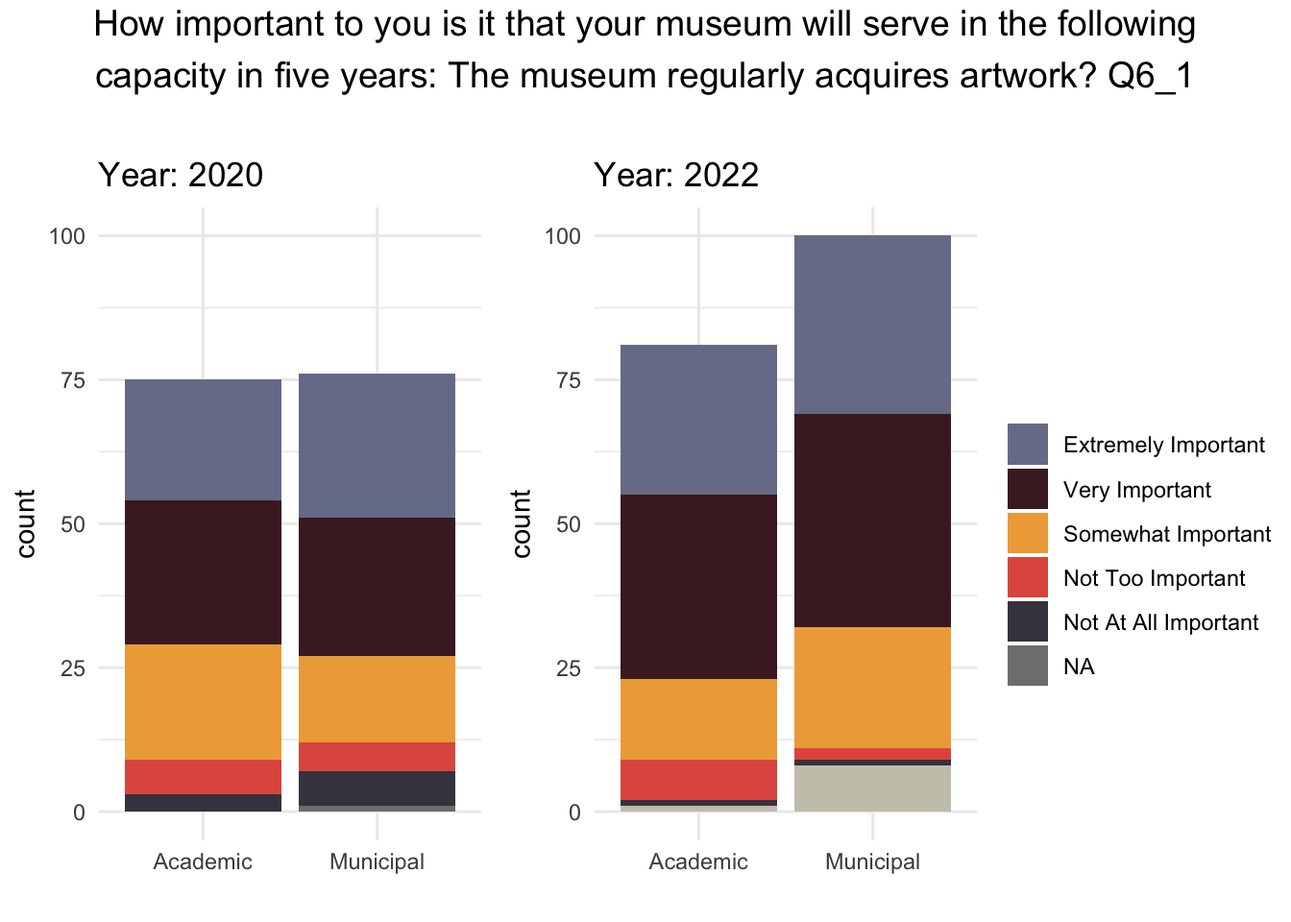
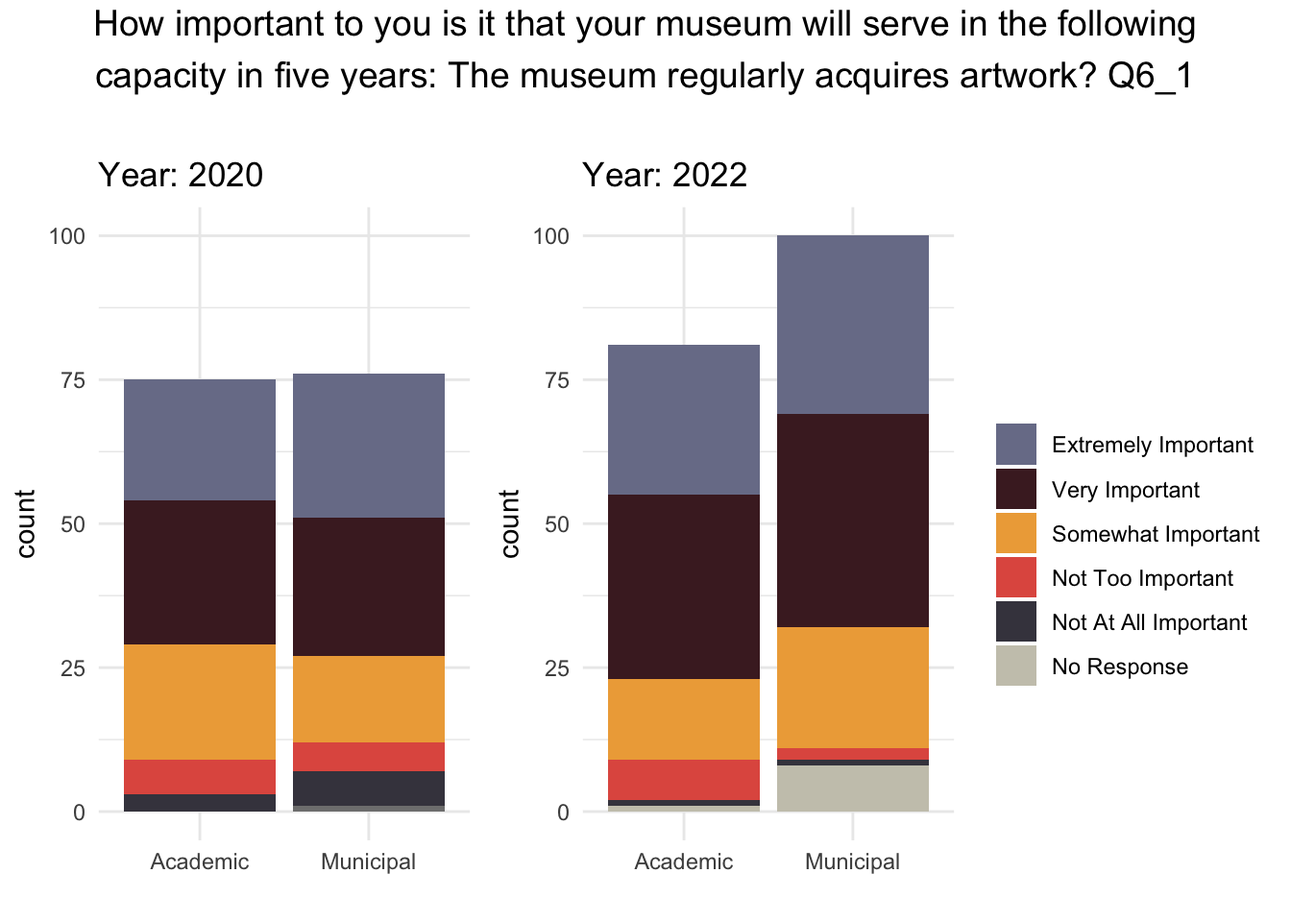
briannas fixes to the no response and na issues

diff --git a/_site/index.html b/_site/index.html
@@ -171,8 +171,8 @@ ul.task-list li input[type="checkbox"] {
 <h2 class="anchored" data-anchor-id="pca-analysis">PCA Analysis</h2>
 <div class="cell">
 <div class="cell-output-display">
-<div class="plotly html-widget html-fill-item" id="htmlwidget-b55cbbfea144236f5699" style="width:100%;height:464px;"></div>
-<script type="application/json" data-for="htmlwidget-b55cbbfea144236f5699">{"x":{"visdat":{"b3373631fd56":["function () ","plotlyVisDat"]},"cur_data":"b3373631fd56","attrs":{"b3373631fd56":{"x":{},"y":{},"mode":"markers","text":{},"hoverinfo":"text","marker":{"size":8,"opacity":1},"color":{},"colors":["#797d97","#cac7b9","#eeaa46","#4a2329","#e15b4f"],"alpha_stroke":1,"sizes":[10,100],"spans":[1,20],"type":"scatter"}},"layout":{"margin":{"b":40,"l":60,"t":25,"r":10},"title":{"text":"K-means Clustering on PCA Data","x":0.5,"xanchor":"center"},"xaxis":{"domain":[0,1],"automargin":true,"title":"PC1"},"yaxis":{"domain":[0,1],"automargin":true,"title":"PC2"},"legend":{"title":{"text":"Cluster"}},"hovermode":"closest","showlegend":true},"source":"A","config":{"modeBarButtonsToAdd":["hoverclosest","hovercompare"],"showSendToCloud":false},"data":[{"x":[1.9519669837468396,-0.34672951718763817,0.22867006025165865,1.3888820103977106,0.47893667713665039,-1.631635860011462,-0.23826189879536919,1.7821228840170011,-0.97540665248346758,0.43477365454045086,2.160290840545215,-0.12589699749730354,-2.0514690662157857,-0.69271084928894133,-0.068169590592236234,-2.3881764453225331,2.1763523705102252,-0.065012002914332678,0.32602127385675356,3.437594664475367,-0.28499385232099256,-0.9122061091808028,0.074477843692339549,0.63390348869985835,-0.89777349502524684,-1.3519287396442732,-0.90387715832019733,-1.2792696953575686,-0.4369157120150301,-1.7109417169914398,-0.10007386880636844,-0.091989849829529624,2.6369183552493745,1.1725482239351928,-0.69396323107238767,1.4287335118836426,-0.60716534530529787,-0.32965242105236542,0.32949752569067636,2.8887351896864009,0.35685268391167402,-1.1295295054848664,0.26081706879333483,0.22246898972410081,0.36382815139855468,-1.1462573944378258,0.037824082915974305,3.4115729823049752,-0.36310628756894542,-0.27873022883722676,-0.50642636824388443,0.28927361697365117],"y":[0.74742248445268256,1.4923206735003918,-0.91994422985294366,3.1197753494483136,1.3563185471339476,1.4986680541491204,1.9751080037334505,4.77139878841552,1.2498877044502206,0.64590801815596155,1.0575477025993407,0.3339151163710129,2.2032565462158553,2.9055073051589368,2.4713991288270067,1.7103967990660469,-0.46731120591713521,1.5334757821619649,1.5915025086749186,2.8938583623320011,1.6591684070258959,1.3967819693094785,1.8957491135744093,1.5364525945811942,-0.19531674983572078,0.71492746940552376,0.45617756909781149,1.8604530764820331,-0.50062351450272213,2.2427034978695932,2.5159168567193375,1.0522068061122356,3.1871480096704734,1.8801807717495747,2.0313770856793325,-0.2536495990129643,2.4221765278348339,1.1011719061949869,0.58359560011381717,3.2403459683341564,1.7152748639709736,0.92559545440133328,-1.0269779144760685,0.77964300334143,-0.74888213266847481,2.4563046566471942,1.5346750032688712,-0.25404765414689651,0.92368359384659926,0.5691870155792077,2.4821447731618269,2.1923072976478184],"mode":"markers","text":["ID: 3","ID: 7","ID: 11","ID: 12","ID: 16","ID: 17","ID: 20","ID: 23","ID: 24","ID: 30","ID: 33","ID: 38","ID: 42","ID: 45","ID: 48","ID: 55","ID: 58","ID: 62","ID: 65","ID: 66","ID: 71","ID: 73","ID: 75","ID: 80","ID: 84","ID: 87","ID: 94","ID: 95","ID: 97","ID: 99","ID: 100","ID: 104","ID: 107","ID: 108","ID: 111","ID: 112","ID: 115","ID: 117","ID: 118","ID: 119","ID: 124","ID: 136","ID: 140","ID: 141","ID: 145","ID: 147","ID: 152","ID: 153","ID: 156","ID: 164","ID: 177","ID: 180"],"hoverinfo":["text","text","text","text","text","text","text","text","text","text","text","text","text","text","text","text","text","text","text","text","text","text","text","text","text","text","text","text","text","text","text","text","text","text","text","text","text","text","text","text","text","text","text","text","text","text","text","text","text","text","text","text"],"marker":{"color":"rgba(121,125,151,1)","size":8,"opacity":1,"line":{"color":"rgba(121,125,151,1)"}},"type":"scatter","name":"1","textfont":{"color":"rgba(121,125,151,1)"},"error_y":{"color":"rgba(121,125,151,1)"},"error_x":{"color":"rgba(121,125,151,1)"},"line":{"color":"rgba(121,125,151,1)"},"xaxis":"x","yaxis":"y","frame":null},{"x":[0.60682477478487129,6.1597867816673402,1.532663615823159,3.0978107885122808,0.58843221608168239,1.8690412169865966,3.0922685676825816,2.5168266203129996,2.6313916515447482,4.2403480676353658,1.8139872130918999,0.94840825309821131,1.5654531888479541,2.112213335350738,4.1245700640749918,3.0825129371414914,2.2467584163499281,3.5344603739358784,3.2261037507716392,2.1057639031538327,2.6500963220426144,4.8721535818249606,2.6622738114152091,0.81339145011294589,2.7964904117546565,4.1246536581682482,4.1836676006554141,0.30014729274505042,2.7717771628469263,0.58084851640149404,3.4339591995878664,4.2260627644449,2.3872611026572343,0.77221224279213441,2.2688316160123705,4.2083435790701165,5.690526745241586],"y":[-1.2225237785036751,0.55363798306489576,2.5476962680762529,0.29339380693869616,0.30209182752737057,1.9165592140780907,0.49216222288222949,0.16805808198645539,-0.98658713167495404,1.0376886209793783,-1.9585949810558561,-0.78212881134347267,-0.65059269623512328,2.0418831621150009,-0.82151407967461287,0.72688250911641217,0.73220878711965565,1.1978604930971897,-0.33351565117700038,-0.072222832856582167,0.026473239561696216,0.093296771440084747,3.534625474176702,-0.51274377935091042,2.3142178458517551,1.1617312233105939,1.7300903884604659,-2.2231539445518695,-1.0090921479835422,0.27514425422446981,0.51534682906617713,0.582440976000972,1.7596722095429247,-1.6409742912704808,-0.51255394221134809,-1.4800675849099341,-0.24475176452356712],"mode":"markers","text":["ID: 1","ID: 6","ID: 9","ID: 10","ID: 22","ID: 34","ID: 39","ID: 44","ID: 46","ID: 52","ID: 59","ID: 68","ID: 74","ID: 76","ID: 79","ID: 81","ID: 85","ID: 92","ID: 101","ID: 103","ID: 109","ID: 110","ID: 116","ID: 121","ID: 128","ID: 138","ID: 139","ID: 142","ID: 144","ID: 148","ID: 150","ID: 151","ID: 155","ID: 158","ID: 159","ID: 169","ID: 179"],"hoverinfo":["text","text","text","text","text","text","text","text","text","text","text","text","text","text","text","text","text","text","text","text","text","text","text","text","text","text","text","text","text","text","text","text","text","text","text","text","text"],"marker":{"color":"rgba(202,199,185,1)","size":8,"opacity":1,"line":{"color":"rgba(202,199,185,1)"}},"type":"scatter","name":"2","textfont":{"color":"rgba(202,199,185,1)"},"error_y":{"color":"rgba(202,199,185,1)"},"error_x":{"color":"rgba(202,199,185,1)"},"line":{"color":"rgba(202,199,185,1)"},"xaxis":"x","yaxis":"y","frame":null},{"x":[-1.9711354743872325,-2.8562465749176575,-1.3012404373382547,-3.9282068407720585,-2.4572609348505394,-0.41490370784447245,-2.3037049767447551,0.11167601376614701,-1.760023185741777,-2.2329260352352764,-1.4794932678662605,-0.13318880655564569,-2.078356852251463,-0.75401512915603652,-3.2463436240978365,-1.9735038918329351,-0.54359791315650541,-3.6654743046885216,-0.93545164690782523,-1.2586946029741692,-4.0345116483095049,-4.3531040311024771,-3.8099021901159515,-1.1286545172884521,-0.6698549781348333,-4.2427427846927683,-4.3972320124075459,-2.4402202605496708,-2.487644318234731,-1.8082573299007163,-2.3687772238097122,-1.8031036081651521,-3.101168181134212,-2.1750493754392393,-1.4365999897759718,-4.1879558508134771,-2.5431375564136078,-1.8004581961732331,-0.55824876335040252,-4.2015917254672255,-3.5348872527911737,-2.8800899011774037,-2.0448290605570087,-1.2362472347285249,-1.8514176291997324,-1.0353740395819702,-1.2654742396344014,-4.027872156557839,-1.2133731653794202,-3.1978398370421246,-3.6398809629574918,-2.8147929559339042,-2.9223886410009188,-1.3506553313651235,-2.5281001026765018,-1.1971135767043795,-0.69186877082572551,-4.2478833001426617,-0.69734874467912522,-3.4941816658703213,-2.6950982010034275,-2.0423278213978517,-2.1570975299989557,-3.3740683280048995,-1.6399622512406147,0.51575583918526957,-0.28085602994846037,-2.4798927484412556,-0.76409996046896278,-1.9731463979193162,-2.2233790652234005,-0.19624099632028247,-2.3346762238373682,-1.5801727513662776,-0.9355998536474075,-2.0377804193188185,-0.8712673419493332,-1.9948283541255027,-2.9106341069528043,-4.7746349863726056,-0.58997120071491027,-0.041479668581613643],"y":[-0.57787056101989032,1.8911502444085913,-1.5696700115834028,-1.3865068994909828,1.465299169040563,-1.5360828697174282,-0.11913156402608727,-1.4299705361381148,0.8494690983219052,-2.1085538409099498,-1.7382303271157564,-1.5581156430714149,0.73027867433345639,-3.0732432369301597,-1.6291740269597443,1.1632270061285046,-1.3788060163646536,-0.28539654256194652,0.46658611897560076,0.55446922448665215,-0.012451530266400872,-0.12247917015603174,0.15514518940168026,-2.8409428525957741,-1.1679809861261654,0.15686951339380811,-0.71365023011996764,-0.043782187026531159,1.0967603051231154,-1.4426736915773704,0.46878020245948387,-2.7759950378566609,0.49939108199431431,-1.3666139511927069,1.0438592270085647,-0.39274753019223468,0.14107860155885193,0.080541076531973524,-1.6284644897870133,-0.44339581318678117,0.011912044981263654,0.97289622096312578,-0.48928780057962379,0.71643265662848665,-2.3173442976866125,-1.0077986780791768,-0.28908427672591558,-1.1400982540145663,0.10450934662155117,0.23494520769015387,-1.0283561445213494,1.1524093562731492,0.21126043065772693,0.33951282969553498,-2.064306735401757,0.36378520557650545,-0.60720469913983155,0.2904255420352525,-1.7950330939595509,-1.5671745182921195,-0.67660346869542953,-0.89943349516765347,0.71789772257288564,-1.3170548443890029,0.24132361204322805,-1.7558443528690888,-0.11269107215056724,-2.5347405157191956,-1.0223371734350066,0.45353334659552669,-2.1977108715959921,-1.0570474631661653,-1.8036913896942295,-0.27672300732370658,-0.089888273156349091,1.1404563561160757,-0.55321045214796027,-1.525580655208904,-1.1160918743746342,-0.29156362900901905,-0.26306034019189145,-0.82601875038594341],"mode":"markers","text":["ID: 2","ID: 4","ID: 8","ID: 13","ID: 14","ID: 15","ID: 21","ID: 25","ID: 26","ID: 27","ID: 28","ID: 29","ID: 31","ID: 32","ID: 35","ID: 36","ID: 37","ID: 41","ID: 43","ID: 47","ID: 49","ID: 50","ID: 51","ID: 53","ID: 54","ID: 56","ID: 57","ID: 60","ID: 61","ID: 63","ID: 64","ID: 67","ID: 69","ID: 70","ID: 72","ID: 77","ID: 78","ID: 82","ID: 83","ID: 86","ID: 88","ID: 89","ID: 90","ID: 91","ID: 93","ID: 98","ID: 102","ID: 105","ID: 106","ID: 114","ID: 120","ID: 122","ID: 125","ID: 126","ID: 127","ID: 129","ID: 130","ID: 131","ID: 133","ID: 134","ID: 135","ID: 137","ID: 146","ID: 149","ID: 154","ID: 157","ID: 160","ID: 161","ID: 162","ID: 163","ID: 165","ID: 166","ID: 167","ID: 168","ID: 170","ID: 172","ID: 173","ID: 174","ID: 175","ID: 176","ID: 178","ID: 181"],"hoverinfo":["text","text","text","text","text","text","text","text","text","text","text","text","text","text","text","text","text","text","text","text","text","text","text","text","text","text","text","text","text","text","text","text","text","text","text","text","text","text","text","text","text","text","text","text","text","text","text","text","text","text","text","text","text","text","text","text","text","text","text","text","text","text","text","text","text","text","text","text","text","text","text","text","text","text","text","text","text","text","text","text","text","text"],"marker":{"color":"rgba(238,170,70,1)","size":8,"opacity":1,"line":{"color":"rgba(238,170,70,1)"}},"type":"scatter","name":"3","textfont":{"color":"rgba(238,170,70,1)"},"error_y":{"color":"rgba(238,170,70,1)"},"error_x":{"color":"rgba(238,170,70,1)"},"line":{"color":"rgba(238,170,70,1)"},"xaxis":"x","yaxis":"y","frame":null},{"x":[5.28224837385737,4.8003809202713041,4.6193321084589209,6.3935806295873494,3.8409689287727797,6.9917359063374889,6.655697923565155,6.4104860301159556],"y":[-7.3633332480990212,-9.4938735015685154,-7.4293935087059522,-4.4325395651726387,-8.0657980038617563,-8.1868346683277586,-6.6516178282812168,-5.512100066304531],"mode":"markers","text":["ID: 5","ID: 19","ID: 40","ID: 96","ID: 113","ID: 123","ID: 132","ID: 143"],"hoverinfo":["text","text","text","text","text","text","text","text"],"marker":{"color":"rgba(74,35,41,1)","size":8,"opacity":1,"line":{"color":"rgba(74,35,41,1)"}},"type":"scatter","name":"4","textfont":{"color":"rgba(74,35,41,1)"},"error_y":{"color":"rgba(74,35,41,1)"},"error_x":{"color":"rgba(74,35,41,1)"},"line":{"color":"rgba(74,35,41,1)"},"xaxis":"x","yaxis":"y","frame":null},{"x":[11.232000682653949,9.0538361285100066],"y":[7.620719875414026,11.669068038996027],"mode":"markers","text":["ID: 18","ID: 171"],"hoverinfo":["text","text"],"marker":{"color":"rgba(225,91,79,1)","size":8,"opacity":1,"line":{"color":"rgba(225,91,79,1)"}},"type":"scatter","name":"5","textfont":{"color":"rgba(225,91,79,1)"},"error_y":{"color":"rgba(225,91,79,1)"},"error_x":{"color":"rgba(225,91,79,1)"},"line":{"color":"rgba(225,91,79,1)"},"xaxis":"x","yaxis":"y","frame":null}],"highlight":{"on":"plotly_click","persistent":false,"dynamic":false,"selectize":false,"opacityDim":0.20000000000000001,"selected":{"opacity":1},"debounce":0},"shinyEvents":["plotly_hover","plotly_click","plotly_selected","plotly_relayout","plotly_brushed","plotly_brushing","plotly_clickannotation","plotly_doubleclick","plotly_deselect","plotly_afterplot","plotly_sunburstclick"],"base_url":"https://plot.ly"},"evals":[],"jsHooks":[]}</script>
+<div class="plotly html-widget html-fill-item" id="htmlwidget-6c4dc3d18926eed528a5" style="width:100%;height:464px;"></div>
+<script type="application/json" data-for="htmlwidget-6c4dc3d18926eed528a5">{"x":{"visdat":{"b44d2517dece":["function () ","plotlyVisDat"]},"cur_data":"b44d2517dece","attrs":{"b44d2517dece":{"x":{},"y":{},"mode":"markers","text":{},"hoverinfo":"text","marker":{"size":8,"opacity":1},"color":{},"colors":["#797d97","#cac7b9","#eeaa46","#4a2329","#e15b4f"],"alpha_stroke":1,"sizes":[10,100],"spans":[1,20],"type":"scatter"}},"layout":{"margin":{"b":40,"l":60,"t":25,"r":10},"title":{"text":"K-means Clustering on PCA Data","x":0.5,"xanchor":"center"},"xaxis":{"domain":[0,1],"automargin":true,"title":"PC1"},"yaxis":{"domain":[0,1],"automargin":true,"title":"PC2"},"legend":{"title":{"text":"Cluster"}},"hovermode":"closest","showlegend":true},"source":"A","config":{"modeBarButtonsToAdd":["hoverclosest","hovercompare"],"showSendToCloud":false},"data":[{"x":[1.9519669837468396,-0.34672951718763817,0.22867006025165865,1.3888820103977106,0.47893667713665039,-1.631635860011462,-0.23826189879536919,1.7821228840170011,-0.97540665248346758,0.43477365454045086,2.160290840545215,-0.12589699749730354,-2.0514690662157857,-0.69271084928894133,-0.068169590592236234,-2.3881764453225331,2.1763523705102252,-0.065012002914332678,0.32602127385675356,3.437594664475367,-0.28499385232099256,-0.9122061091808028,0.074477843692339549,0.63390348869985835,-0.89777349502524684,-1.3519287396442732,-0.90387715832019733,-1.2792696953575686,-0.4369157120150301,-1.7109417169914398,-0.10007386880636844,-0.091989849829529624,2.6369183552493745,1.1725482239351928,-0.69396323107238767,1.4287335118836426,-0.60716534530529787,-0.32965242105236542,0.32949752569067636,2.8887351896864009,0.35685268391167402,-1.1295295054848664,0.26081706879333483,0.22246898972410081,0.36382815139855468,-1.1462573944378258,0.037824082915974305,3.4115729823049752,-0.36310628756894542,-0.27873022883722676,-0.50642636824388443,0.28927361697365117],"y":[0.74742248445268256,1.4923206735003918,-0.91994422985294366,3.1197753494483136,1.3563185471339476,1.4986680541491204,1.9751080037334505,4.77139878841552,1.2498877044502206,0.64590801815596155,1.0575477025993407,0.3339151163710129,2.2032565462158553,2.9055073051589368,2.4713991288270067,1.7103967990660469,-0.46731120591713521,1.5334757821619649,1.5915025086749186,2.8938583623320011,1.6591684070258959,1.3967819693094785,1.8957491135744093,1.5364525945811942,-0.19531674983572078,0.71492746940552376,0.45617756909781149,1.8604530764820331,-0.50062351450272213,2.2427034978695932,2.5159168567193375,1.0522068061122356,3.1871480096704734,1.8801807717495747,2.0313770856793325,-0.2536495990129643,2.4221765278348339,1.1011719061949869,0.58359560011381717,3.2403459683341564,1.7152748639709736,0.92559545440133328,-1.0269779144760685,0.77964300334143,-0.74888213266847481,2.4563046566471942,1.5346750032688712,-0.25404765414689651,0.92368359384659926,0.5691870155792077,2.4821447731618269,2.1923072976478184],"mode":"markers","text":["ID: 3","ID: 7","ID: 11","ID: 12","ID: 16","ID: 17","ID: 20","ID: 23","ID: 24","ID: 30","ID: 33","ID: 38","ID: 42","ID: 45","ID: 48","ID: 55","ID: 58","ID: 62","ID: 65","ID: 66","ID: 71","ID: 73","ID: 75","ID: 80","ID: 84","ID: 87","ID: 94","ID: 95","ID: 97","ID: 99","ID: 100","ID: 104","ID: 107","ID: 108","ID: 111","ID: 112","ID: 115","ID: 117","ID: 118","ID: 119","ID: 124","ID: 136","ID: 140","ID: 141","ID: 145","ID: 147","ID: 152","ID: 153","ID: 156","ID: 164","ID: 177","ID: 180"],"hoverinfo":["text","text","text","text","text","text","text","text","text","text","text","text","text","text","text","text","text","text","text","text","text","text","text","text","text","text","text","text","text","text","text","text","text","text","text","text","text","text","text","text","text","text","text","text","text","text","text","text","text","text","text","text"],"marker":{"color":"rgba(121,125,151,1)","size":8,"opacity":1,"line":{"color":"rgba(121,125,151,1)"}},"type":"scatter","name":"1","textfont":{"color":"rgba(121,125,151,1)"},"error_y":{"color":"rgba(121,125,151,1)"},"error_x":{"color":"rgba(121,125,151,1)"},"line":{"color":"rgba(121,125,151,1)"},"xaxis":"x","yaxis":"y","frame":null},{"x":[0.60682477478487129,6.1597867816673402,1.532663615823159,3.0978107885122808,0.58843221608168239,1.8690412169865966,3.0922685676825816,2.5168266203129996,2.6313916515447482,4.2403480676353658,1.8139872130918999,0.94840825309821131,1.5654531888479541,2.112213335350738,4.1245700640749918,3.0825129371414914,2.2467584163499281,3.5344603739358784,3.2261037507716392,2.1057639031538327,2.6500963220426144,4.8721535818249606,2.6622738114152091,0.81339145011294589,2.7964904117546565,4.1246536581682482,4.1836676006554141,0.30014729274505042,2.7717771628469263,0.58084851640149404,3.4339591995878664,4.2260627644449,2.3872611026572343,0.77221224279213441,2.2688316160123705,4.2083435790701165,5.690526745241586],"y":[-1.2225237785036751,0.55363798306489576,2.5476962680762529,0.29339380693869616,0.30209182752737057,1.9165592140780907,0.49216222288222949,0.16805808198645539,-0.98658713167495404,1.0376886209793783,-1.9585949810558561,-0.78212881134347267,-0.65059269623512328,2.0418831621150009,-0.82151407967461287,0.72688250911641217,0.73220878711965565,1.1978604930971897,-0.33351565117700038,-0.072222832856582167,0.026473239561696216,0.093296771440084747,3.534625474176702,-0.51274377935091042,2.3142178458517551,1.1617312233105939,1.7300903884604659,-2.2231539445518695,-1.0090921479835422,0.27514425422446981,0.51534682906617713,0.582440976000972,1.7596722095429247,-1.6409742912704808,-0.51255394221134809,-1.4800675849099341,-0.24475176452356712],"mode":"markers","text":["ID: 1","ID: 6","ID: 9","ID: 10","ID: 22","ID: 34","ID: 39","ID: 44","ID: 46","ID: 52","ID: 59","ID: 68","ID: 74","ID: 76","ID: 79","ID: 81","ID: 85","ID: 92","ID: 101","ID: 103","ID: 109","ID: 110","ID: 116","ID: 121","ID: 128","ID: 138","ID: 139","ID: 142","ID: 144","ID: 148","ID: 150","ID: 151","ID: 155","ID: 158","ID: 159","ID: 169","ID: 179"],"hoverinfo":["text","text","text","text","text","text","text","text","text","text","text","text","text","text","text","text","text","text","text","text","text","text","text","text","text","text","text","text","text","text","text","text","text","text","text","text","text"],"marker":{"color":"rgba(202,199,185,1)","size":8,"opacity":1,"line":{"color":"rgba(202,199,185,1)"}},"type":"scatter","name":"2","textfont":{"color":"rgba(202,199,185,1)"},"error_y":{"color":"rgba(202,199,185,1)"},"error_x":{"color":"rgba(202,199,185,1)"},"line":{"color":"rgba(202,199,185,1)"},"xaxis":"x","yaxis":"y","frame":null},{"x":[-1.9711354743872325,-2.8562465749176575,-1.3012404373382547,-3.9282068407720585,-2.4572609348505394,-0.41490370784447245,-2.3037049767447551,0.11167601376614701,-1.760023185741777,-2.2329260352352764,-1.4794932678662605,-0.13318880655564569,-2.078356852251463,-0.75401512915603652,-3.2463436240978365,-1.9735038918329351,-0.54359791315650541,-3.6654743046885216,-0.93545164690782523,-1.2586946029741692,-4.0345116483095049,-4.3531040311024771,-3.8099021901159515,-1.1286545172884521,-0.6698549781348333,-4.2427427846927683,-4.3972320124075459,-2.4402202605496708,-2.487644318234731,-1.8082573299007163,-2.3687772238097122,-1.8031036081651521,-3.101168181134212,-2.1750493754392393,-1.4365999897759718,-4.1879558508134771,-2.5431375564136078,-1.8004581961732331,-0.55824876335040252,-4.2015917254672255,-3.5348872527911737,-2.8800899011774037,-2.0448290605570087,-1.2362472347285249,-1.8514176291997324,-1.0353740395819702,-1.2654742396344014,-4.027872156557839,-1.2133731653794202,-3.1978398370421246,-3.6398809629574918,-2.8147929559339042,-2.9223886410009188,-1.3506553313651235,-2.5281001026765018,-1.1971135767043795,-0.69186877082572551,-4.2478833001426617,-0.69734874467912522,-3.4941816658703213,-2.6950982010034275,-2.0423278213978517,-2.1570975299989557,-3.3740683280048995,-1.6399622512406147,0.51575583918526957,-0.28085602994846037,-2.4798927484412556,-0.76409996046896278,-1.9731463979193162,-2.2233790652234005,-0.19624099632028247,-2.3346762238373682,-1.5801727513662776,-0.9355998536474075,-2.0377804193188185,-0.8712673419493332,-1.9948283541255027,-2.9106341069528043,-4.7746349863726056,-0.58997120071491027,-0.041479668581613643],"y":[-0.57787056101989032,1.8911502444085913,-1.5696700115834028,-1.3865068994909828,1.465299169040563,-1.5360828697174282,-0.11913156402608727,-1.4299705361381148,0.8494690983219052,-2.1085538409099498,-1.7382303271157564,-1.5581156430714149,0.73027867433345639,-3.0732432369301597,-1.6291740269597443,1.1632270061285046,-1.3788060163646536,-0.28539654256194652,0.46658611897560076,0.55446922448665215,-0.012451530266400872,-0.12247917015603174,0.15514518940168026,-2.8409428525957741,-1.1679809861261654,0.15686951339380811,-0.71365023011996764,-0.043782187026531159,1.0967603051231154,-1.4426736915773704,0.46878020245948387,-2.7759950378566609,0.49939108199431431,-1.3666139511927069,1.0438592270085647,-0.39274753019223468,0.14107860155885193,0.080541076531973524,-1.6284644897870133,-0.44339581318678117,0.011912044981263654,0.97289622096312578,-0.48928780057962379,0.71643265662848665,-2.3173442976866125,-1.0077986780791768,-0.28908427672591558,-1.1400982540145663,0.10450934662155117,0.23494520769015387,-1.0283561445213494,1.1524093562731492,0.21126043065772693,0.33951282969553498,-2.064306735401757,0.36378520557650545,-0.60720469913983155,0.2904255420352525,-1.7950330939595509,-1.5671745182921195,-0.67660346869542953,-0.89943349516765347,0.71789772257288564,-1.3170548443890029,0.24132361204322805,-1.7558443528690888,-0.11269107215056724,-2.5347405157191956,-1.0223371734350066,0.45353334659552669,-2.1977108715959921,-1.0570474631661653,-1.8036913896942295,-0.27672300732370658,-0.089888273156349091,1.1404563561160757,-0.55321045214796027,-1.525580655208904,-1.1160918743746342,-0.29156362900901905,-0.26306034019189145,-0.82601875038594341],"mode":"markers","text":["ID: 2","ID: 4","ID: 8","ID: 13","ID: 14","ID: 15","ID: 21","ID: 25","ID: 26","ID: 27","ID: 28","ID: 29","ID: 31","ID: 32","ID: 35","ID: 36","ID: 37","ID: 41","ID: 43","ID: 47","ID: 49","ID: 50","ID: 51","ID: 53","ID: 54","ID: 56","ID: 57","ID: 60","ID: 61","ID: 63","ID: 64","ID: 67","ID: 69","ID: 70","ID: 72","ID: 77","ID: 78","ID: 82","ID: 83","ID: 86","ID: 88","ID: 89","ID: 90","ID: 91","ID: 93","ID: 98","ID: 102","ID: 105","ID: 106","ID: 114","ID: 120","ID: 122","ID: 125","ID: 126","ID: 127","ID: 129","ID: 130","ID: 131","ID: 133","ID: 134","ID: 135","ID: 137","ID: 146","ID: 149","ID: 154","ID: 157","ID: 160","ID: 161","ID: 162","ID: 163","ID: 165","ID: 166","ID: 167","ID: 168","ID: 170","ID: 172","ID: 173","ID: 174","ID: 175","ID: 176","ID: 178","ID: 181"],"hoverinfo":["text","text","text","text","text","text","text","text","text","text","text","text","text","text","text","text","text","text","text","text","text","text","text","text","text","text","text","text","text","text","text","text","text","text","text","text","text","text","text","text","text","text","text","text","text","text","text","text","text","text","text","text","text","text","text","text","text","text","text","text","text","text","text","text","text","text","text","text","text","text","text","text","text","text","text","text","text","text","text","text","text","text"],"marker":{"color":"rgba(238,170,70,1)","size":8,"opacity":1,"line":{"color":"rgba(238,170,70,1)"}},"type":"scatter","name":"3","textfont":{"color":"rgba(238,170,70,1)"},"error_y":{"color":"rgba(238,170,70,1)"},"error_x":{"color":"rgba(238,170,70,1)"},"line":{"color":"rgba(238,170,70,1)"},"xaxis":"x","yaxis":"y","frame":null},{"x":[5.28224837385737,4.8003809202713041,4.6193321084589209,6.3935806295873494,3.8409689287727797,6.9917359063374889,6.655697923565155,6.4104860301159556],"y":[-7.3633332480990212,-9.4938735015685154,-7.4293935087059522,-4.4325395651726387,-8.0657980038617563,-8.1868346683277586,-6.6516178282812168,-5.512100066304531],"mode":"markers","text":["ID: 5","ID: 19","ID: 40","ID: 96","ID: 113","ID: 123","ID: 132","ID: 143"],"hoverinfo":["text","text","text","text","text","text","text","text"],"marker":{"color":"rgba(74,35,41,1)","size":8,"opacity":1,"line":{"color":"rgba(74,35,41,1)"}},"type":"scatter","name":"4","textfont":{"color":"rgba(74,35,41,1)"},"error_y":{"color":"rgba(74,35,41,1)"},"error_x":{"color":"rgba(74,35,41,1)"},"line":{"color":"rgba(74,35,41,1)"},"xaxis":"x","yaxis":"y","frame":null},{"x":[11.232000682653949,9.0538361285100066],"y":[7.620719875414026,11.669068038996027],"mode":"markers","text":["ID: 18","ID: 171"],"hoverinfo":["text","text"],"marker":{"color":"rgba(225,91,79,1)","size":8,"opacity":1,"line":{"color":"rgba(225,91,79,1)"}},"type":"scatter","name":"5","textfont":{"color":"rgba(225,91,79,1)"},"error_y":{"color":"rgba(225,91,79,1)"},"error_x":{"color":"rgba(225,91,79,1)"},"line":{"color":"rgba(225,91,79,1)"},"xaxis":"x","yaxis":"y","frame":null}],"highlight":{"on":"plotly_click","persistent":false,"dynamic":false,"selectize":false,"opacityDim":0.20000000000000001,"selected":{"opacity":1},"debounce":0},"shinyEvents":["plotly_hover","plotly_click","plotly_selected","plotly_relayout","plotly_brushed","plotly_brushing","plotly_clickannotation","plotly_doubleclick","plotly_deselect","plotly_afterplot","plotly_sunburstclick"],"base_url":"https://plot.ly"},"evals":[],"jsHooks":[]}</script>
 </div>
 </div>
 <p>To initially explore the structure and similarities among variables and responders, we turned to unsupervised learning techniques popular in statistical modeling: Principal Component Analysis (PCA) and K-Means Clustering. We chose Dimension Reduction techniques because of the large number of survey questions we had. These techniques are excellent at identifying patterns and important features in large datasets. The goal of these preliminary plots was to understand patterns in responses and the overall influence of different survey questions in creating such patterns. Our findings would then inform which variables we decided to take a closer look at and patterns to look for between variable responses. First, we performed principal component analysis on our 2022 data, which essentially transforms the original survey data into a set of new summary variables that contain the main points of the data. These summary variables are called principal components, as you’ll notice on the x and y axis labels of the plot.</p>
